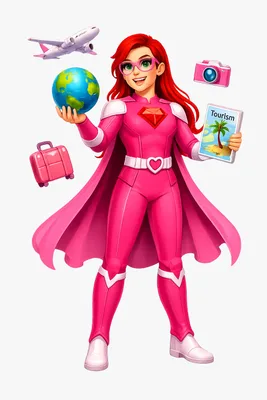
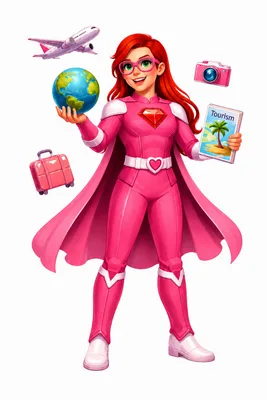
Update character picker and home screen with refreshed character art

diff --git a/components/HomeScreen.tsx b/components/HomeScreen.tsx
@@ -319,20 +319,20 @@ export default function HomeScreen({ onNavigate, userPlan, onOpenLangPicker, onO
                       <button
                         key={tutor.name}
                         onClick={() => onOpenChatWithTutor?.(tutor.name)}
-                        className="bg-white rounded-2xl border-2 border-[#BE1832] p-3 sm:p-4 flex flex-col items-center gap-2 text-center hover:shadow-md hover:bg-[#BE1832]/5 active:scale-[0.98] transition-all focus:outline-none focus-visible:ring-2 focus-visible:ring-[#BE1832]/50"
+                        className="bg-white rounded-2xl border border-gray-100 shadow-sm overflow-hidden hover:shadow-md active:scale-[0.98] transition-all focus:outline-none focus-visible:ring-2 focus-visible:ring-[#BE1832]/50"
                       >
-                        <p className="font-semibold text-[#BE1832] text-sm sm:text-base">{tutor.name}</p>
-                        <div className="w-full aspect-square rounded-xl bg-white overflow-hidden flex items-center justify-center">
-                          <img
-                            src={tutor.img}
-                            alt={tutor.name}
-                            className="w-full h-full object-contain"
-                            draggable={false}
-                          />
+                        <img
+                          src={tutor.img}
+                          alt={tutor.name}
+                          className="w-full block"
+                          draggable={false}
+                        />
+                        <div className="px-2 py-2 text-center">
+                          <p className="font-semibold text-[#BE1832] text-sm sm:text-base">{tutor.name}</p>
+                          <p className="text-[#BE1832] text-[10px] sm:text-[11px] font-medium leading-tight mt-0.5">
+                            {tutor.subjects.join(" · ")}
+                          </p>
                         </div>
-                        <p className="text-[#BE1832] text-[10px] sm:text-[11px] font-medium leading-tight">
-                          {tutor.subjects.join(" · ")}
-                        </p>
                       </button>
                     ))}
                   </div>

diff --git a/components/CharacterPicker.tsx b/components/CharacterPicker.tsx
@@ -103,20 +103,20 @@ export default function CharacterPicker({ onPick }: CharacterPickerProps) {
                       <button
                         key={tutor.name}
                         onClick={() => onPick(tutor.name)}
-                        className="bg-white rounded-2xl border border-gray-100 p-4 flex flex-col items-center gap-3 text-center hover:shadow-md hover:border-[#BE1832]/40 active:scale-[0.98] transition-all focus:outline-none focus-visible:ring-2 focus-visible:ring-[#BE1832]/50"
+                        className="bg-white rounded-2xl border border-gray-100 shadow-sm overflow-hidden hover:shadow-md active:scale-[0.98] transition-all focus:outline-none focus-visible:ring-2 focus-visible:ring-[#BE1832]/50"
                       >
-                        <p className="font-semibold text-gray-800 text-base sm:text-lg">{tutor.name}</p>
-                        <div className="w-full aspect-square rounded-xl bg-white overflow-hidden flex items-center justify-center">
-                          <img
-                            src={tutor.img}
-                            alt={tutor.name}
-                            className="w-full h-full object-contain"
-                            draggable={false}
-                          />
+                        <img
+                          src={tutor.img}
+                          alt={tutor.name}
+                          className="w-full block"
+                          draggable={false}
+                        />
+                        <div className="px-3 py-2.5 text-center">
+                          <p className="font-semibold text-[#BE1832] text-base sm:text-lg">{tutor.name}</p>
+                          <p className="text-[#BE1832] text-xs sm:text-sm font-medium leading-tight mt-0.5">
+                            {tutor.subjects.join(" · ")}
+                          </p>
                         </div>
-                        <p className="text-xs sm:text-sm font-medium text-[#BE1832] leading-tight">
-                          {tutor.subjects.join(" · ")}
-                        </p>
                       </button>
                     ))}
                   </div>
